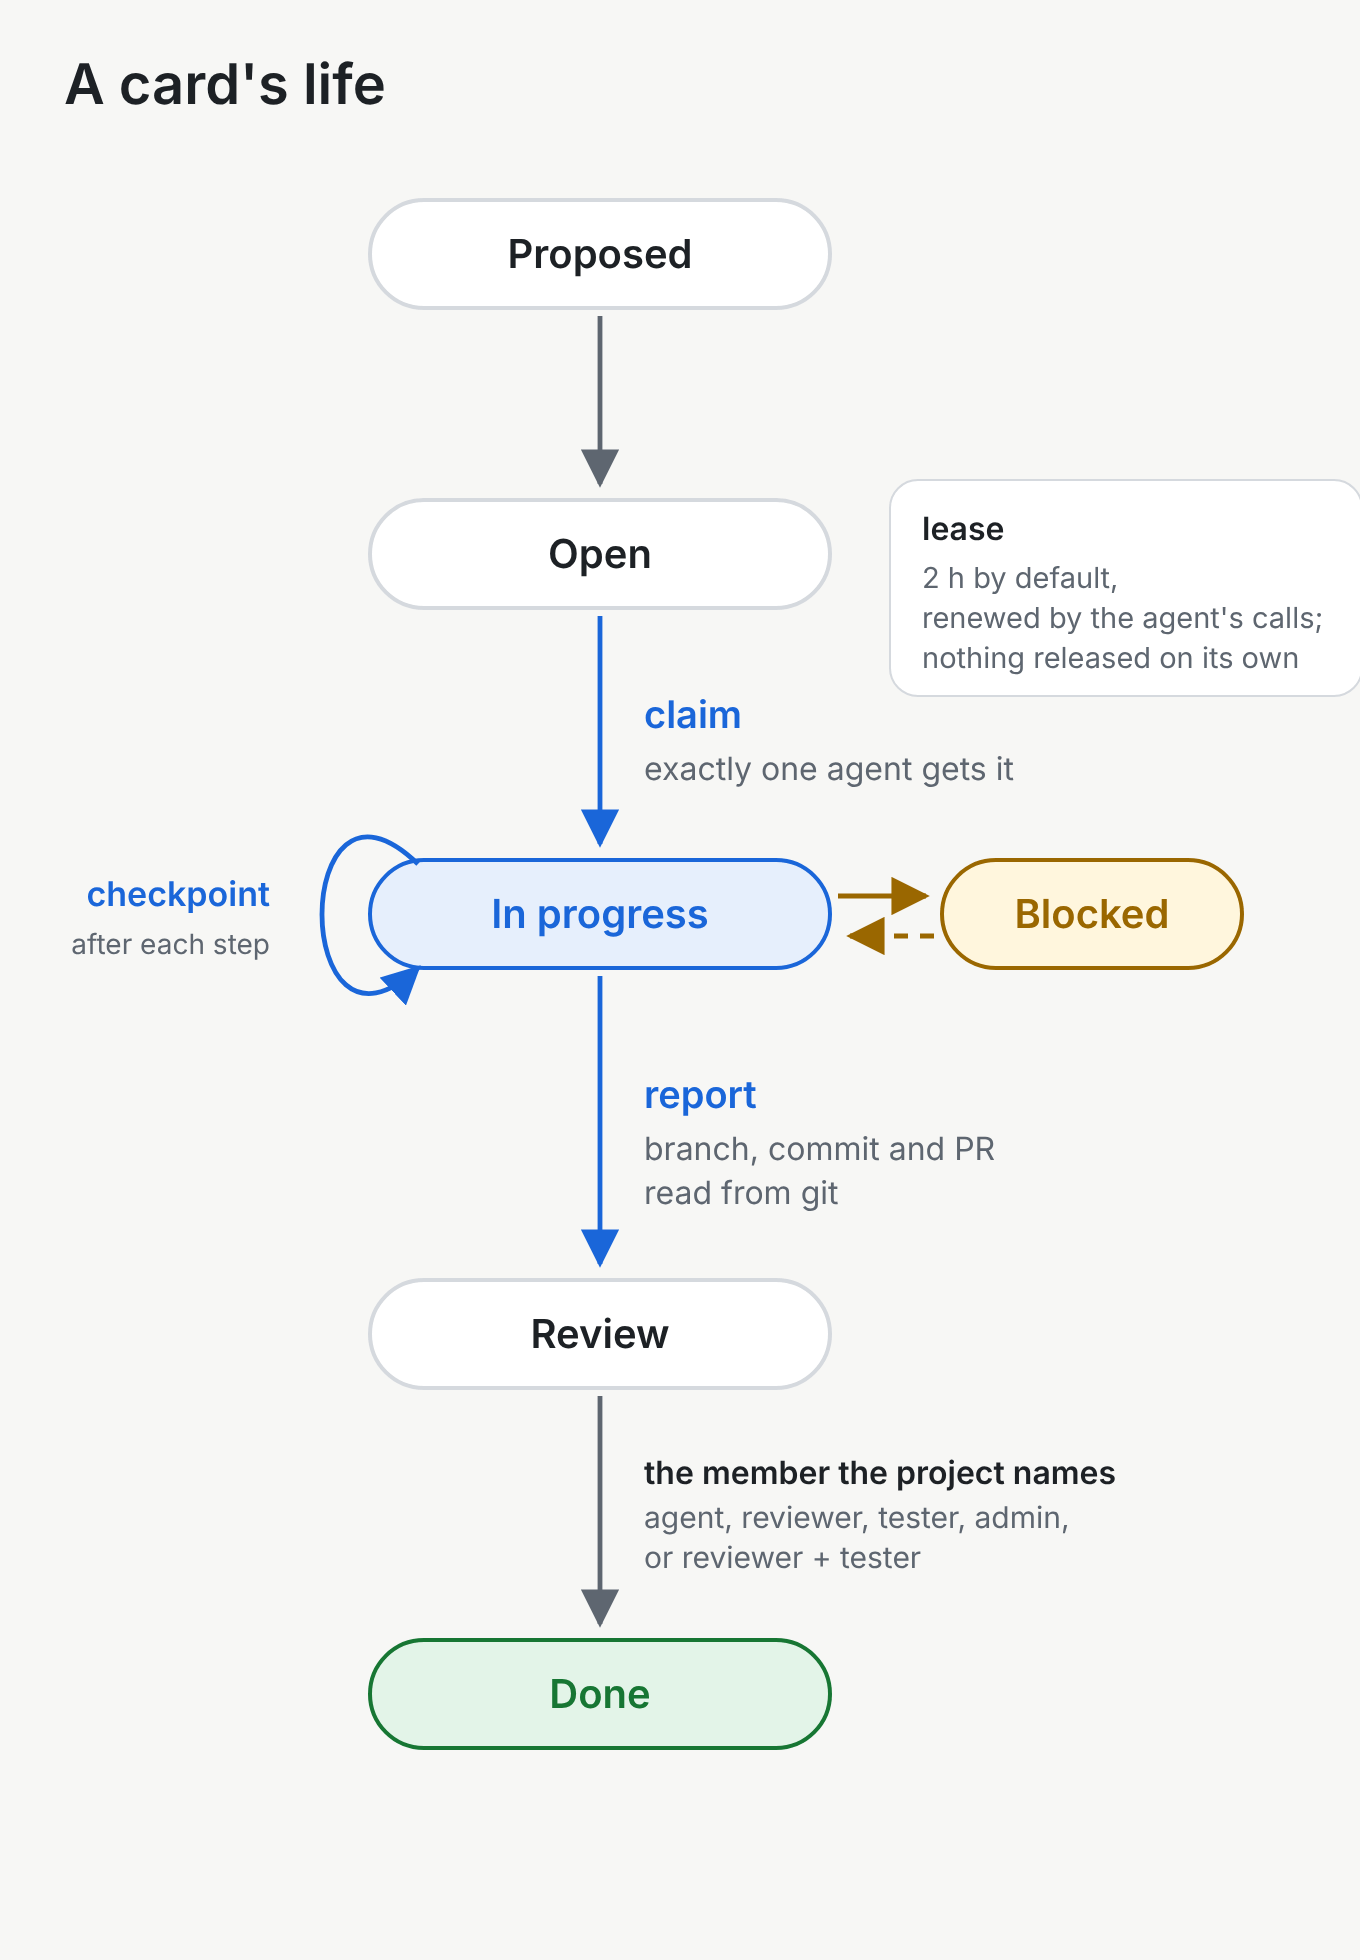
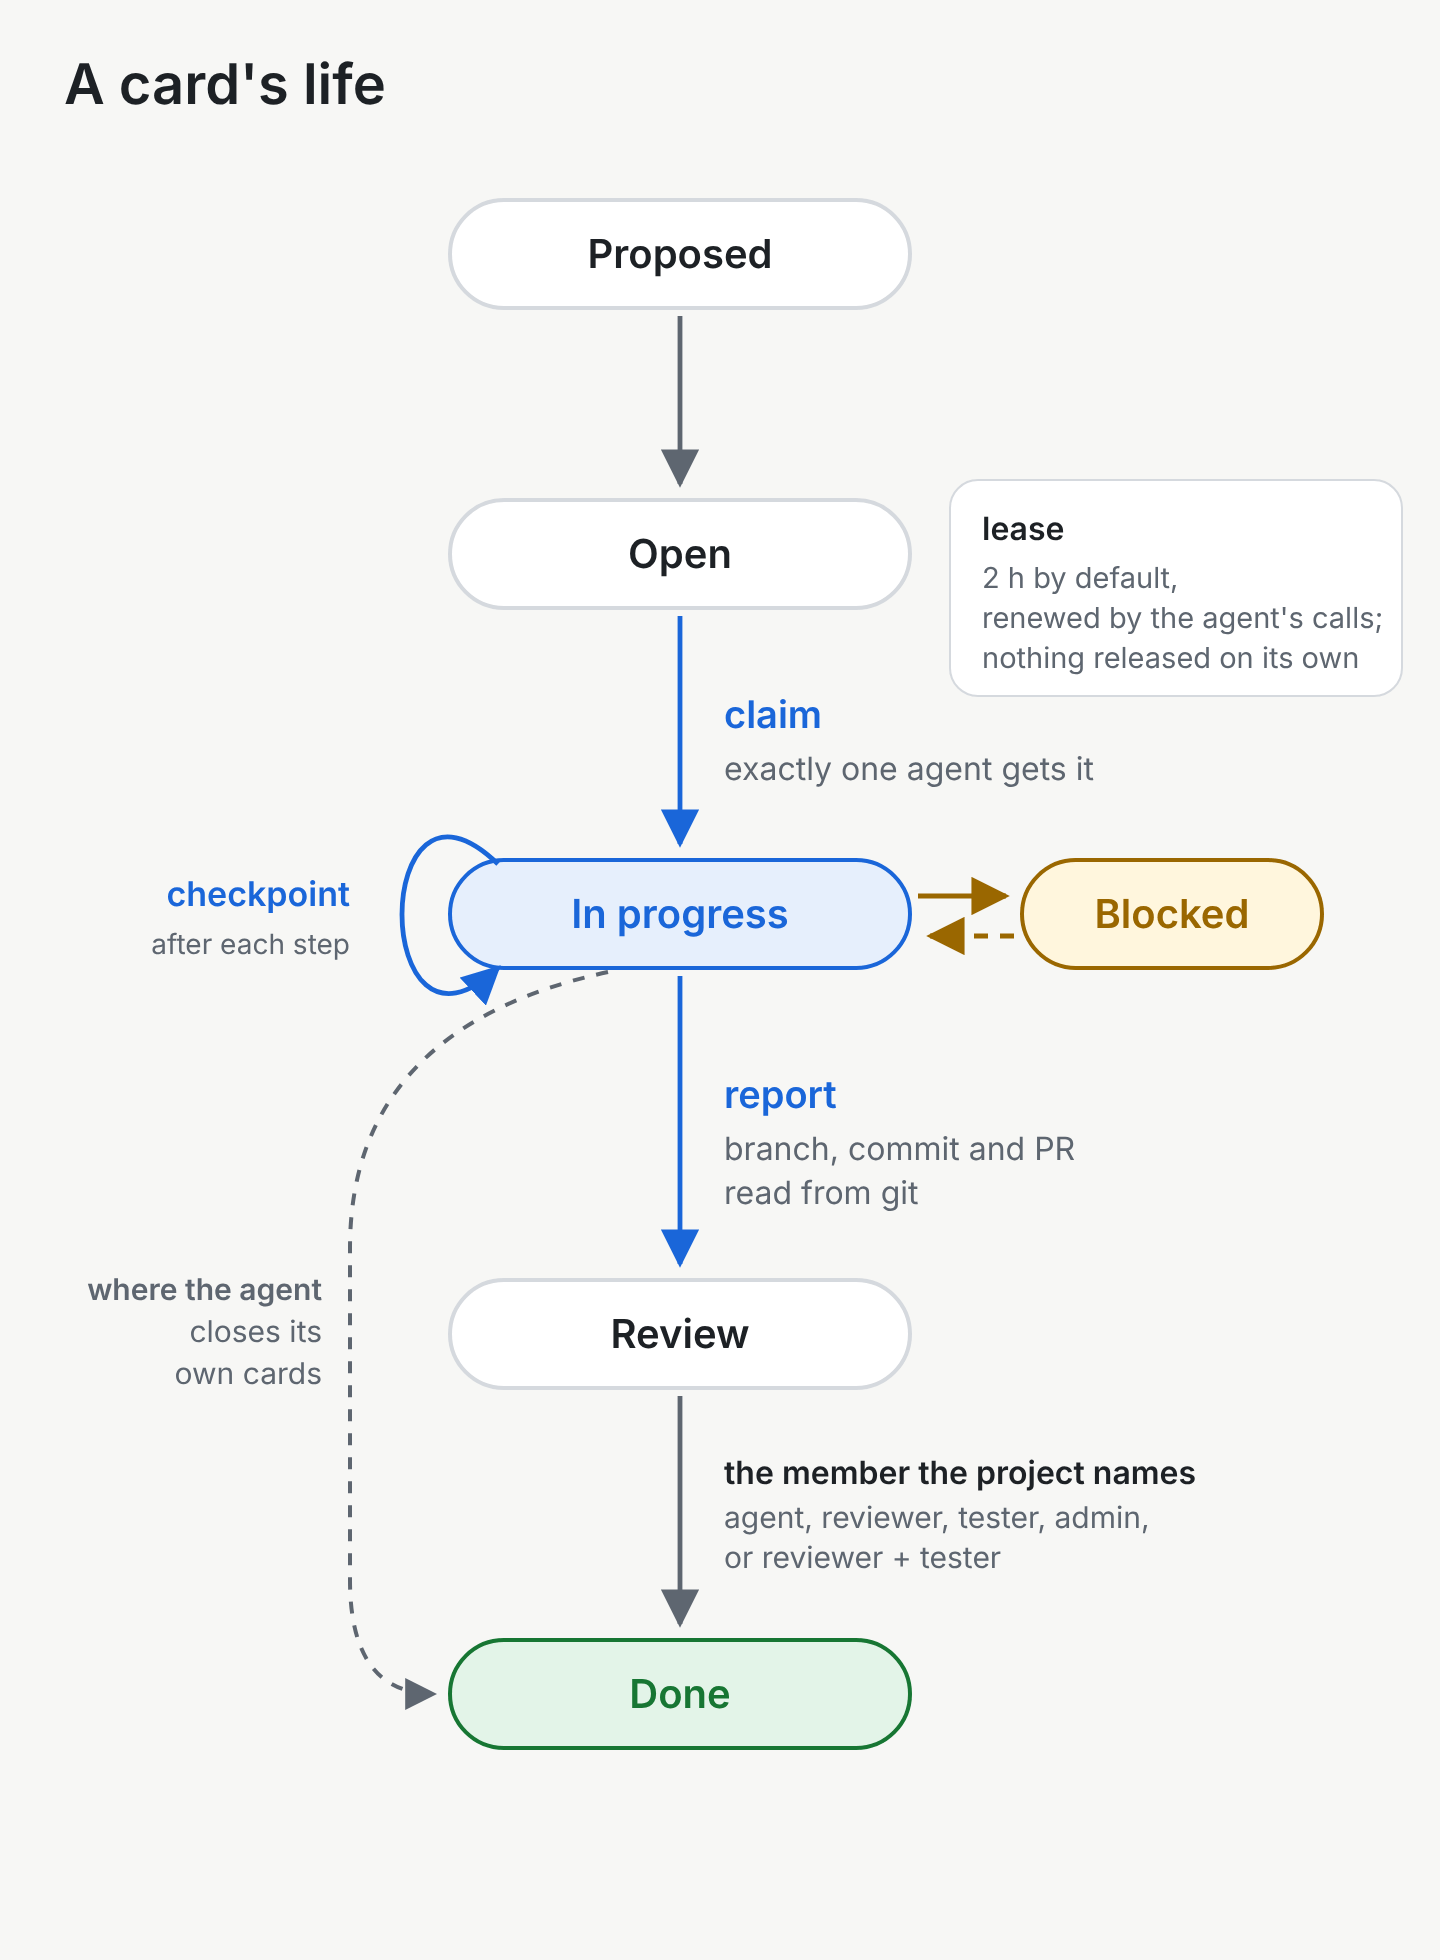
docs: How agents are connected: card-life diagram with the agent's own close

diff --git a/docs/how/connected.md b/docs/how/connected.md
@@ -37,7 +37,7 @@ When several agents work on one project, two of them must not build the same thi
 
 While it works, the agent writes a **checkpoint** after each step it would hate to redo: what is done and what comes next, with the branch and commit read from git. The next session starts from it, whether that is the same agent or another one. When the work is pushed, the agent sends its **report**, and the card waits in **review** until the member the project names moves it to **done** ([What Maity delivers](what-we-deliver.md#quality-before-speed)).
 
-![A card's life: Proposed, Open, then a claim that exactly one agent gets, In progress with a checkpoint after each step and a way to Blocked and back, a report with branch, commit and pull request read from git, Review, and Done, moved by the member the project names.](../img/how-card-life.png)
+![A card's life: Proposed, Open, then a claim that exactly one agent gets, In progress with a checkpoint after each step and a way to Blocked and back, a report with branch, commit and pull request read from git, Review, and Done, moved by the member the project names, or straight from In progress where the agent closes its own cards.](../img/how-card-life.png)
 
 **An example.** Two agents see the same open card, "Add a search box to the board", and both claim it. One gets it, and the other gets the answer that the card is taken and picks the next one. That evening the first agent's machine goes down. Two hours later the lease has run out, and in the morning the admin hands the card to the second agent, which starts from the last checkpoint.
 
